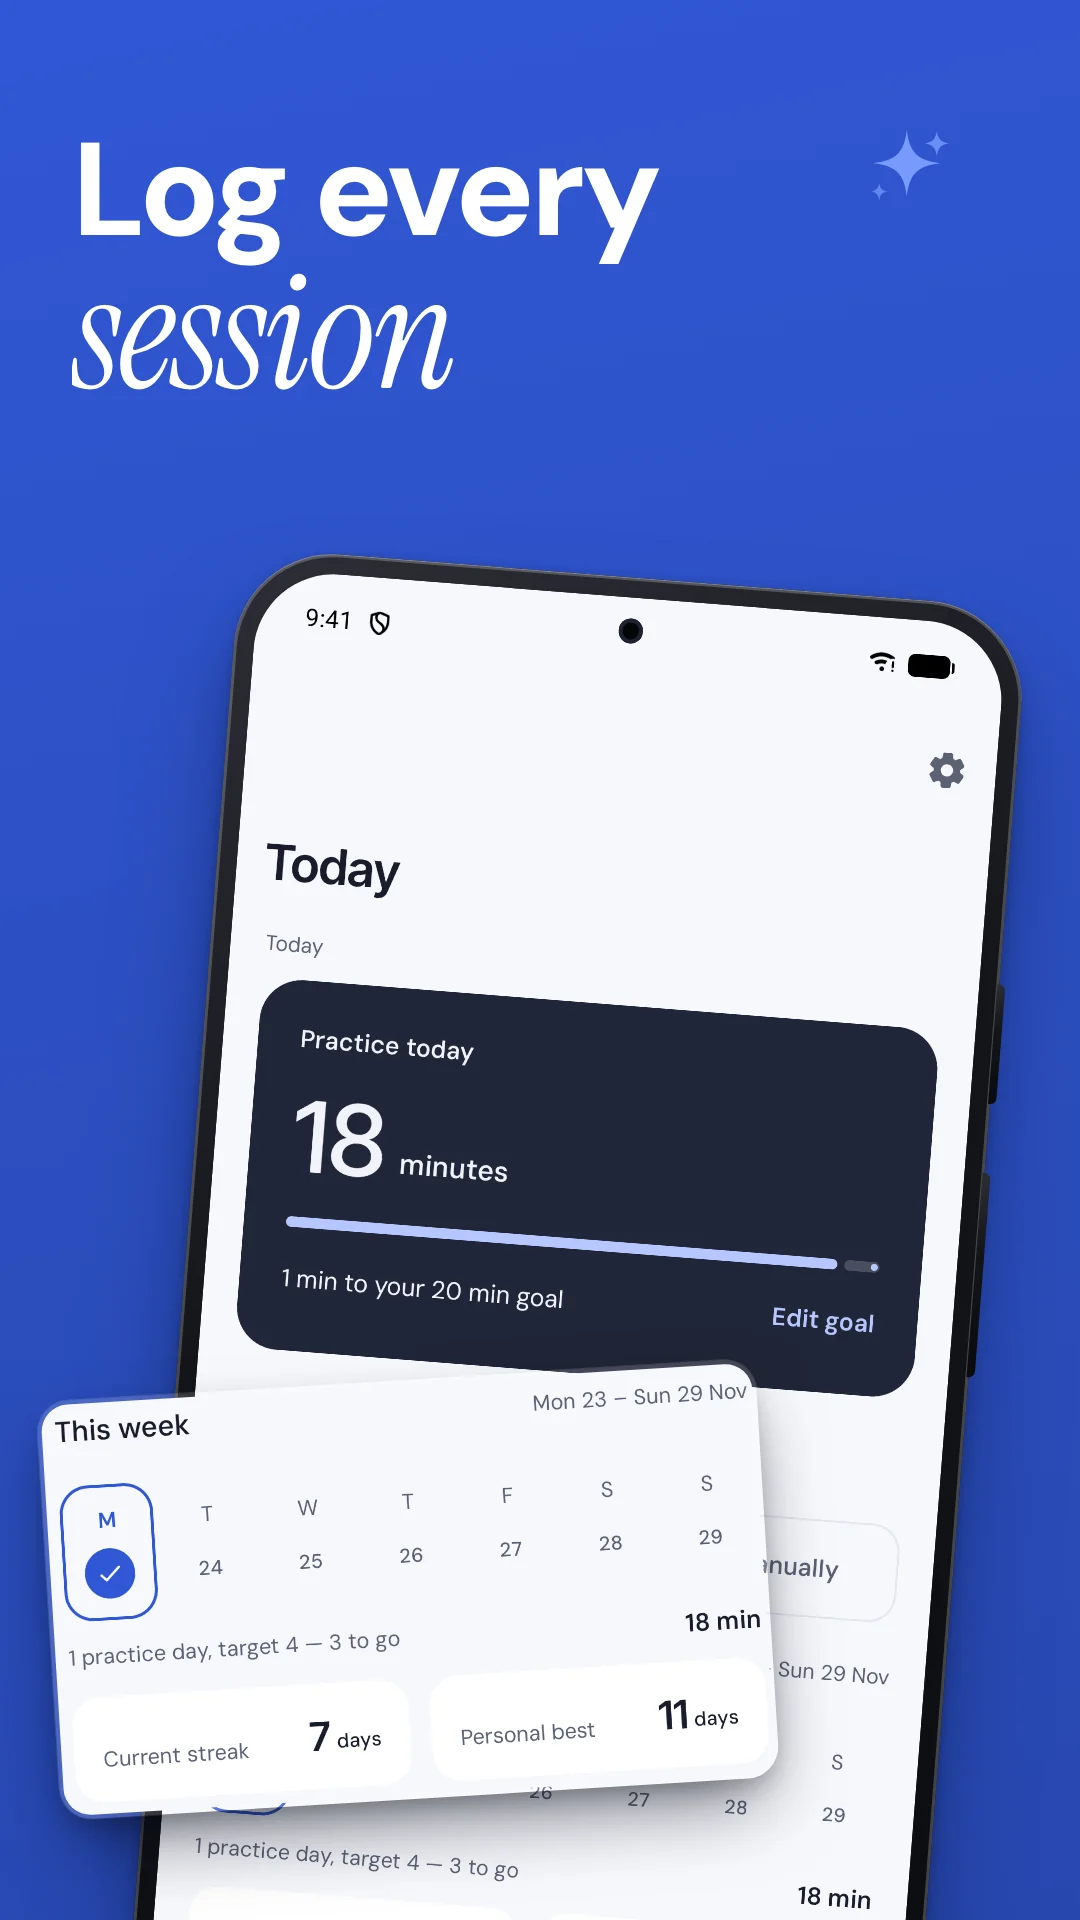
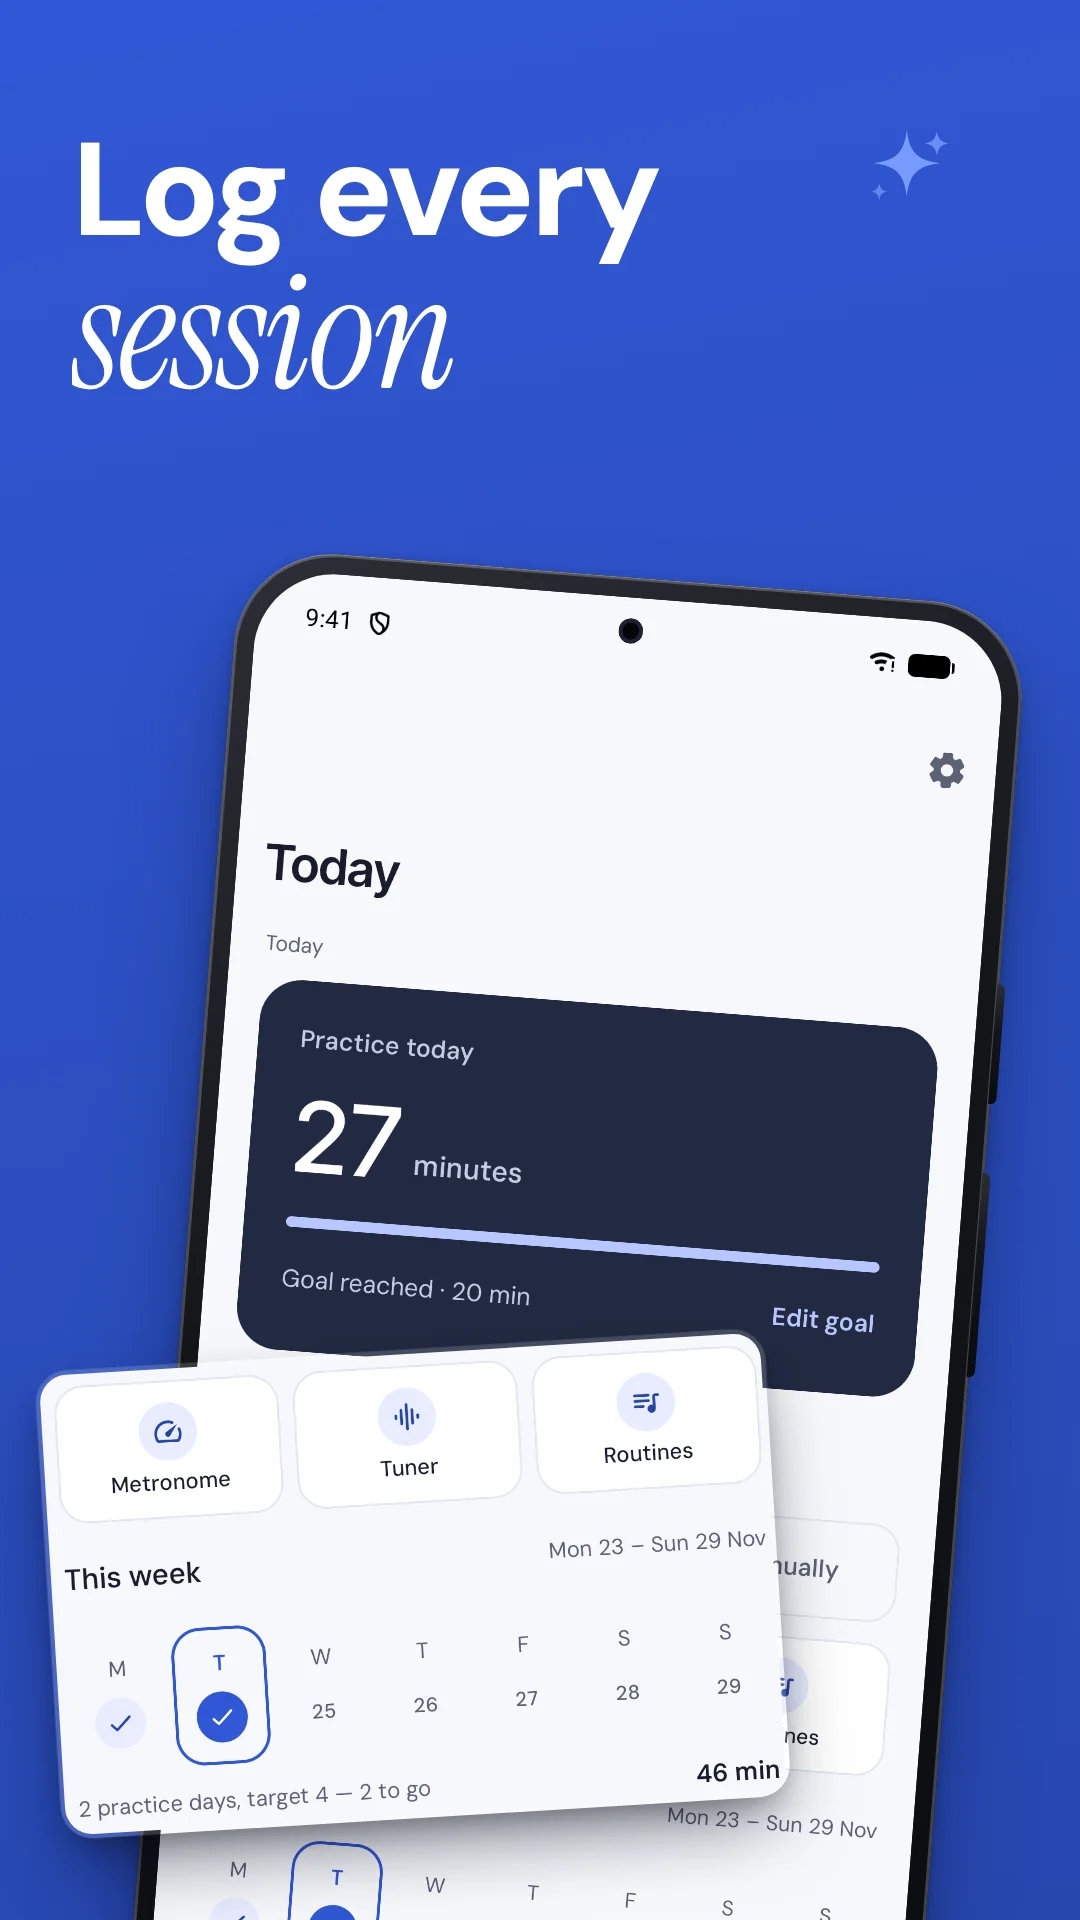
Music Practice Log: update site page, privacy policy and store images
Published by the Android factory from app_ifqcqmzqr4mc.

diff --git a/applications/android/MusicPracticeLog/index.html b/applications/android/MusicPracticeLog/index.html
@@ -99,25 +99,25 @@
         <h2 class="section-title">App Screenshots</h2>
         <div class="screenshots-container">
             <div class="screenshot-wrapper">
-                <img src="../../../assets/images/musicpracticelog/s1-hero.webp" alt="Music Practice Log: Today screen with streak and Start practice" class="screenshot-img" loading="lazy">
+                <img src="../../../assets/images/musicpracticelog/s1-hero.webp" alt="Music Practice Log: Today screen with Quick Tools and streak" class="screenshot-img" loading="lazy">
             </div>
             <div class="screenshot-wrapper">
-                <img src="../../../assets/images/musicpracticelog/s2-log-left.webp" alt="Music Practice Log: Practice log of dated sessions" class="screenshot-img" loading="lazy">
+                <img src="../../../assets/images/musicpracticelog/s2-metronome-tuner.webp" alt="Music Practice Log: Built-in PCM Metronome and 12-note Tone Drone" class="screenshot-img" loading="lazy">
             </div>
             <div class="screenshot-wrapper">
-                <img src="../../../assets/images/musicpracticelog/s3-log-right.webp" alt="Music Practice Log: Session details with instrument, focus and notes" class="screenshot-img" loading="lazy">
+                <img src="../../../assets/images/musicpracticelog/s3-timer.webp" alt="Music Practice Log: Dark-mode crash-safe stopwatch with Metronome, Record and Score dock" class="screenshot-img" loading="lazy">
             </div>
             <div class="screenshot-wrapper">
-                <img src="../../../assets/images/musicpracticelog/s4-timer.webp" alt="Music Practice Log: Crash-safe practice stopwatch" class="screenshot-img" loading="lazy">
+                <img src="../../../assets/images/musicpracticelog/s4-search-log.webp" alt="Music Practice Log: Unlimited journal with instant offline search and BPM pills" class="screenshot-img" loading="lazy">
             </div>
             <div class="screenshot-wrapper">
-                <img src="../../../assets/images/musicpracticelog/s5-insights.webp" alt="Music Practice Log: Practice statistics and instrument split" class="screenshot-img" loading="lazy">
+                <img src="../../../assets/images/musicpracticelog/s5-heatmap.webp" alt="Music Practice Log: 12-week consistency heatmap and streaks" class="screenshot-img" loading="lazy">
             </div>
             <div class="screenshot-wrapper">
-                <img src="../../../assets/images/musicpracticelog/s6-goals-export.webp" alt="Music Practice Log: Daily and weekly goals and Excel or CSV export" class="screenshot-img" loading="lazy">
+                <img src="../../../assets/images/musicpracticelog/s6-export-widgets.webp" alt="Music Practice Log: Excel, CSV, PDF reports, .mplbackup and Home screen widgets" class="screenshot-img" loading="lazy">
             </div>
             <div class="screenshot-wrapper">
-                <img src="../../../assets/images/musicpracticelog/s7-closer.webp" alt="Music Practice Log: Private practice journal with no account" class="screenshot-img" loading="lazy">
+                <img src="../../../assets/images/musicpracticelog/s7-closer.webp" alt="Music Practice Log: 100% offline musician toolkit with no account" class="screenshot-img" loading="lazy">
             </div>
         </div>
     </section>
